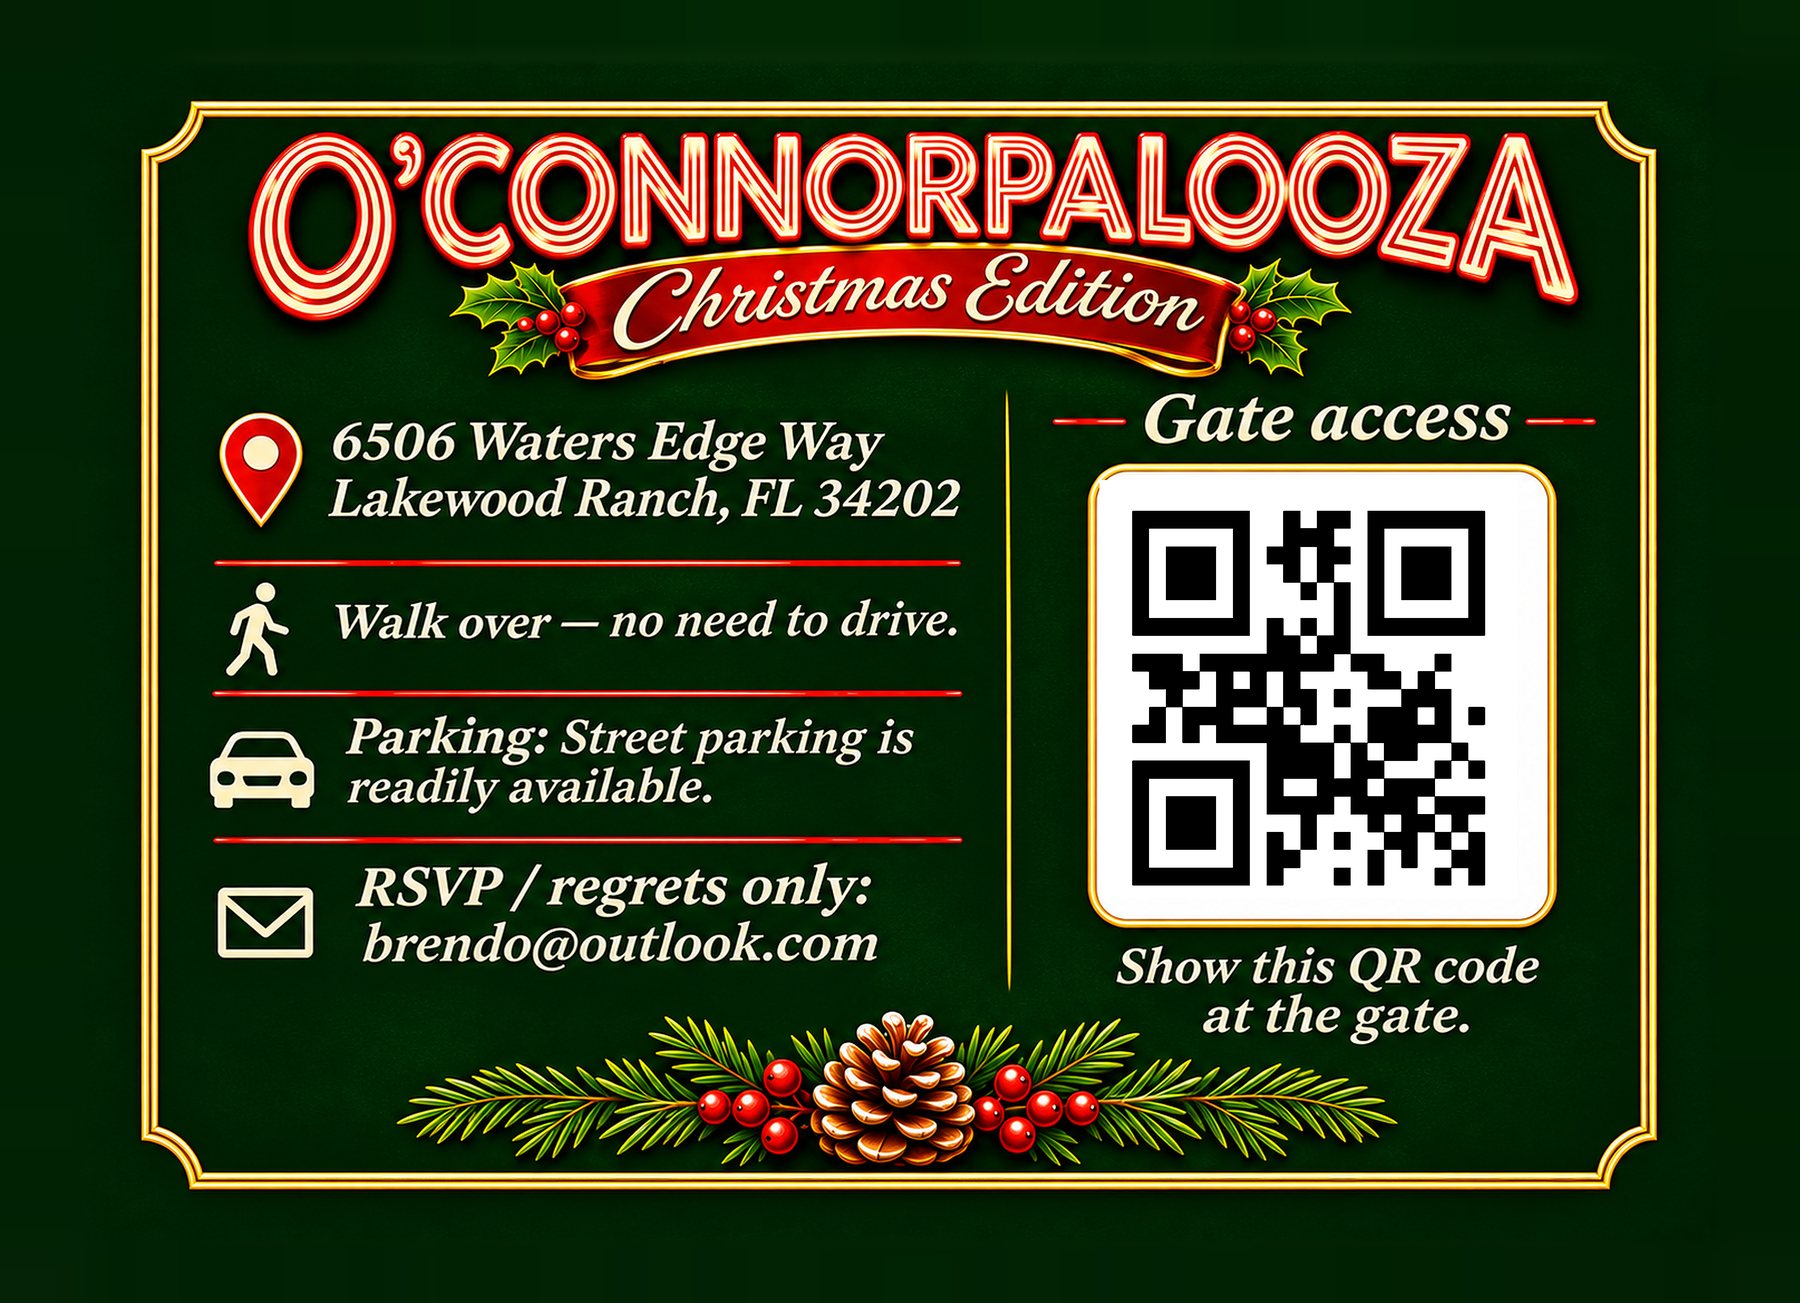
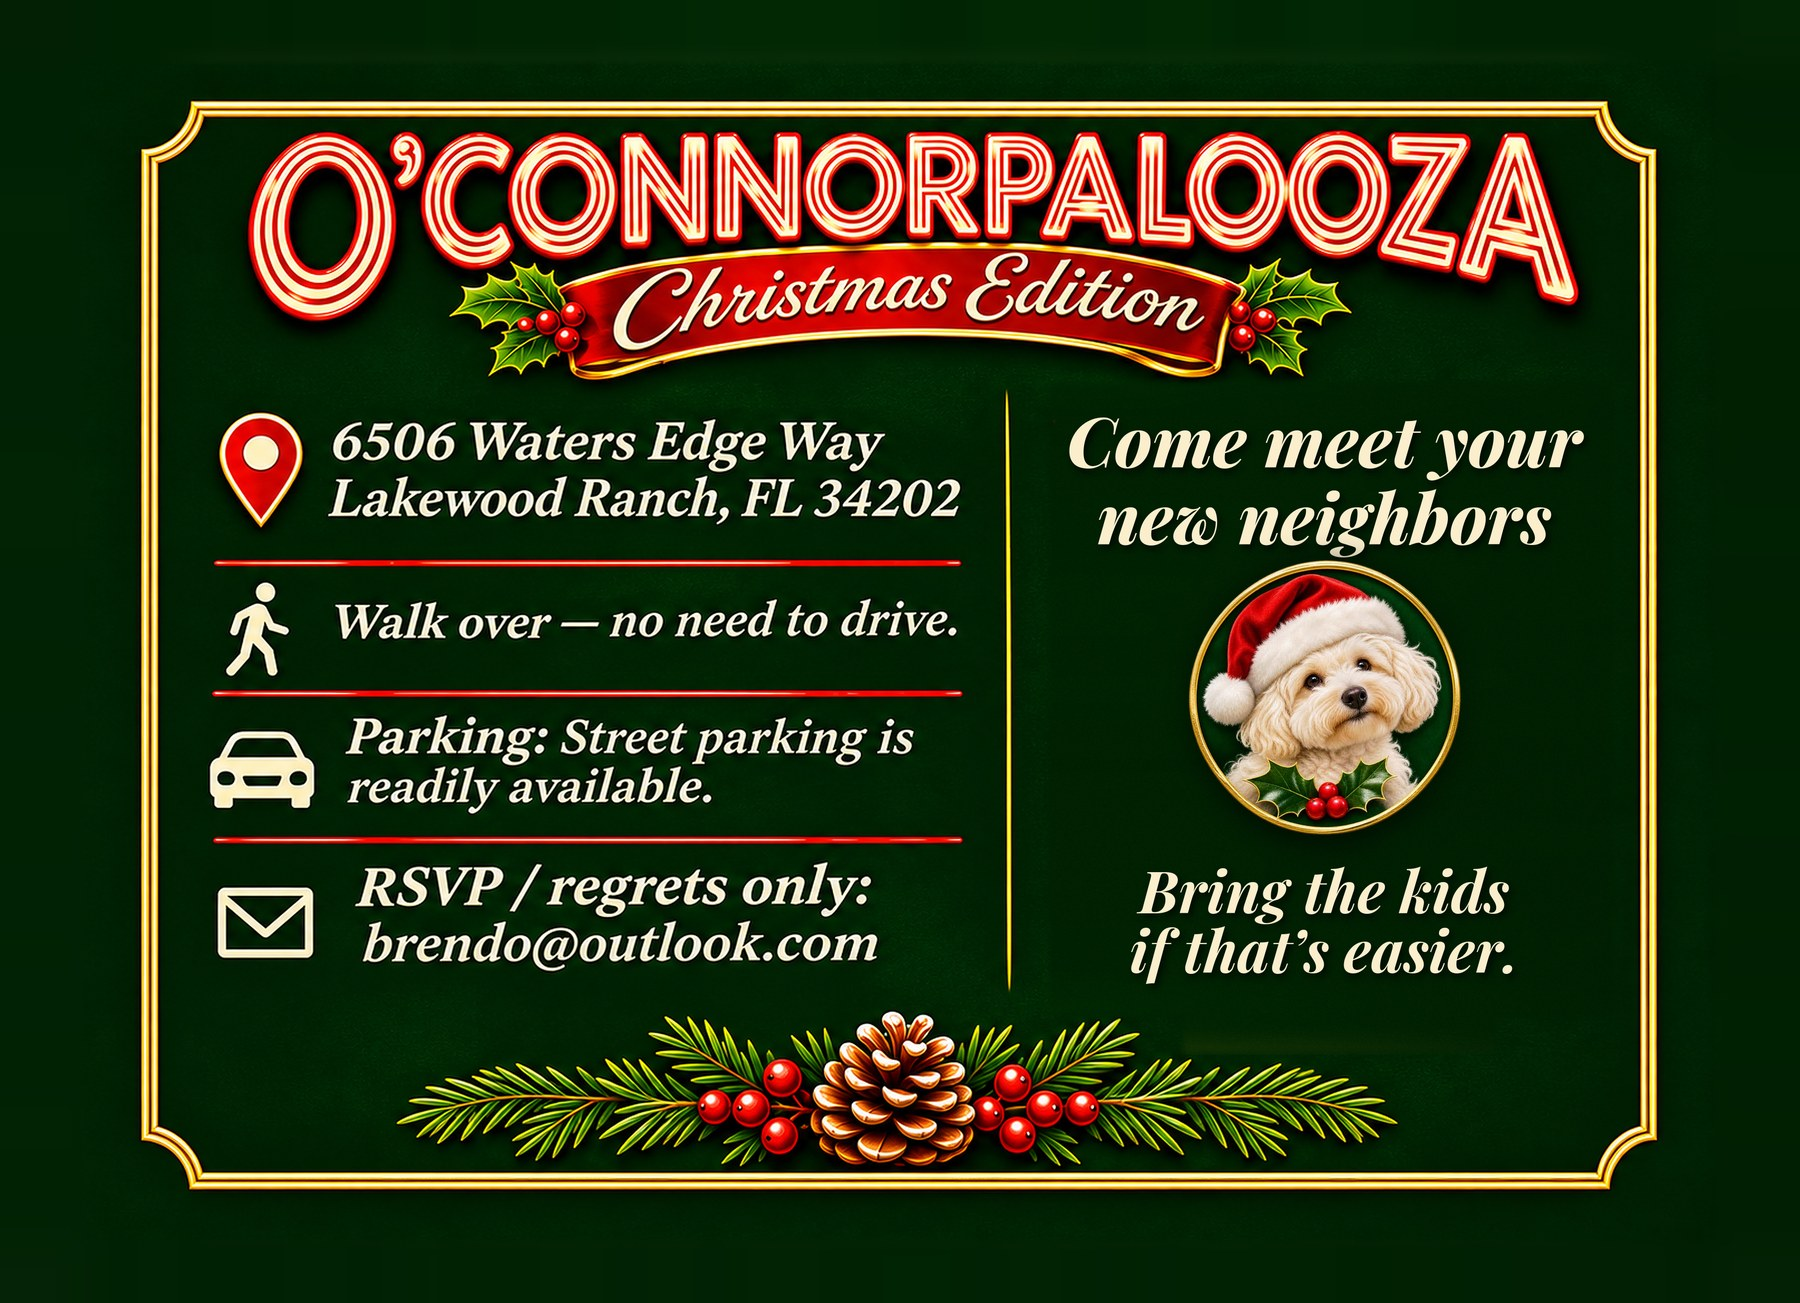
Party page: kids welcome + meet your new neighbors; gate QR only on phones; invite back swaps QR for new lines

Changed region(s): [[0.5911, 0.307, 0.9022, 0.7982]]

diff --git a/public/christmas2026/index.html b/public/christmas2026/index.html
@@ -80,6 +80,14 @@
     }
     .topbar a { text-decoration: none; color: var(--cream-muted); }
     .topbar a:hover { color: var(--gold); }
+    .invite-sub { font-family: var(--font-serif); font-style: italic; font-size: 1.15rem; color: var(--cream-muted); margin: 10px auto 0; max-width: 34ch; text-align: center; }
+    .invite-sub span { display: block; }
+    .gate .desk-medal { display: none; width: 150px; height: 150px; margin: 18px auto 4px; filter: drop-shadow(0 8px 20px rgba(0,0,0,.45)); }
+    .gate .desk-note { display: none; font-family: var(--font-body); font-style: normal; font-size: 0.95rem; color: var(--cream-muted); max-width: 30ch; margin-top: 12px; }
+    @media (min-width: 961px) and (hover: hover) {
+      .gate .on-phone, .actions .btn.btn--gate { display: none; }
+      .gate .desk-note, .gate .desk-medal { display: block; }
+    }
     .topbar .brand { color: var(--gold); font-weight: 600; display: inline-flex; align-items: center; gap: 8px; }
     .topbar .brand img { width: 26px; height: 26px; }
     .medallion { display: block; width: 150px; height: 150px; margin: 0 auto 14px; filter: drop-shadow(0 8px 22px rgba(0,0,0,.45)); animation: bob 5s ease-in-out infinite; }
@@ -397,6 +405,7 @@
       </h1>
 
       <p class="invite-line">Betsy and Brendan invite you to a <em>Friendly Christmas Drop&#8209;In</em></p>
+      <p class="invite-sub"><span>Come meet your new neighbors.</span> <span>Bring the kids if that&rsquo;s easier.</span></p>
 
       <div class="when" aria-label="Date and time">
         <span>Friday</span><span>December 18</span><span>5&ndash;9 PM</span>
@@ -422,7 +431,7 @@
           <svg viewBox="0 0 24 24" fill="none" stroke="currentColor" stroke-width="2" stroke-linecap="round" stroke-linejoin="round" aria-hidden="true"><path d="M12 21s-7-6.2-7-12a7 7 0 0 1 14 0c0 5.8-7 12-7 12z"/><circle cx="12" cy="9" r="2.5"/></svg>
           Driving tips
         </a>
-        <a class="btn" href="#gate">
+        <a class="btn btn--gate" href="#gate">
           <svg viewBox="0 0 24 24" fill="none" stroke="currentColor" stroke-width="2" stroke-linecap="round" stroke-linejoin="round" aria-hidden="true"><rect x="3" y="3" width="7" height="7"/><rect x="14" y="3" width="7" height="7"/><rect x="3" y="14" width="7" height="7"/><path d="M14 14h3v3h-3zM20 14v.01M14 20h.01M17 20h4v-3"/></svg>
           Gate QR code
         </a>
@@ -438,7 +447,7 @@
             <img src="/christmas2026/invite-front.jpg" width="1800" height="1303" alt="Invitation front: Betsy, Brendan and family with the dog in front of a Christmas tree and fireplace. Friday, December 18, 5 to 9 PM. Food, drinks, music and jocularity." />
           </div>
           <div class="flip-face flip-face--back frame">
-            <img src="/christmas2026/invite-back.jpg" width="1800" height="1303" alt="Invitation back: 6506 Waters Edge Way, Lakewood Ranch. Walk over, street parking available, regrets only to brendo@outlook.com, gate access QR code." loading="lazy" />
+            <img src="/christmas2026/invite-back.jpg" width="1800" height="1303" alt="Invitation back: 6506 Waters Edge Way, Lakewood Ranch. Walk over, street parking available, regrets only to brendo@outlook.com. Come meet your new neighbors, and bring the kids if that is easier." loading="lazy" />
           </div>
         </div>
       </div>
@@ -477,6 +486,13 @@
             </div>
           </div>
           <div class="row">
+            <span class="row-icon" aria-hidden="true"><svg viewBox="0 0 24 24" fill="none" stroke="currentColor" stroke-width="2" stroke-linecap="round" stroke-linejoin="round"><circle cx="9" cy="7" r="3"/><circle cx="17" cy="10" r="2"/><path d="M3 21v-2a5 5 0 0 1 10 0v2M14 21v-1.5a3.5 3.5 0 0 1 7 0V21"/></svg></span>
+            <div>
+              <h3>Kids welcome</h3>
+              <p>Bring the kids if that&rsquo;s easier.</p>
+            </div>
+          </div>
+          <div class="row">
             <span class="row-icon" aria-hidden="true"><svg viewBox="0 0 24 24" fill="none" stroke="currentColor" stroke-width="2" stroke-linecap="round" stroke-linejoin="round"><path d="M5 17h14M6 17v2M18 17v2M4 13l2-5a2 2 0 0 1 2-1h8a2 2 0 0 1 2 1l2 5v4H4z"/><circle cx="8" cy="14" r="1"/><circle cx="16" cy="14" r="1"/></svg></span>
             <div>
               <h3>Parking</h3>
@@ -494,9 +510,11 @@
 
         <div class="panel gate" id="gate">
           <h3>Gate access</h3>
-          <div class="qr"><img src="/christmas2026/gate-qr.png" width="600" height="600" alt="Gate access QR code" /></div>
-          <p>Show this QR code at the gate.</p>
-          <p class="tip">Open this page on your phone when you arrive and turn up the screen brightness.</p>
+          <div class="qr on-phone"><img src="/christmas2026/gate-qr.png" width="600" height="600" alt="Gate access QR code" /></div>
+          <p class="on-phone">Show this QR code at the gate.</p>
+          <p class="tip on-phone">Open this page on your phone when you arrive and turn up the screen brightness.</p>
+          <img class="desk-medal" src="/christmas2026/icon-betsy.webp" alt="" aria-hidden="true" width="150" height="150" loading="lazy" />
+          <p class="desk-note">Your gate pass shows up here when you open this page on your phone. Pull it up when you reach the Waterview Boulevard gate.</p>
         </div>
       </div>
 
